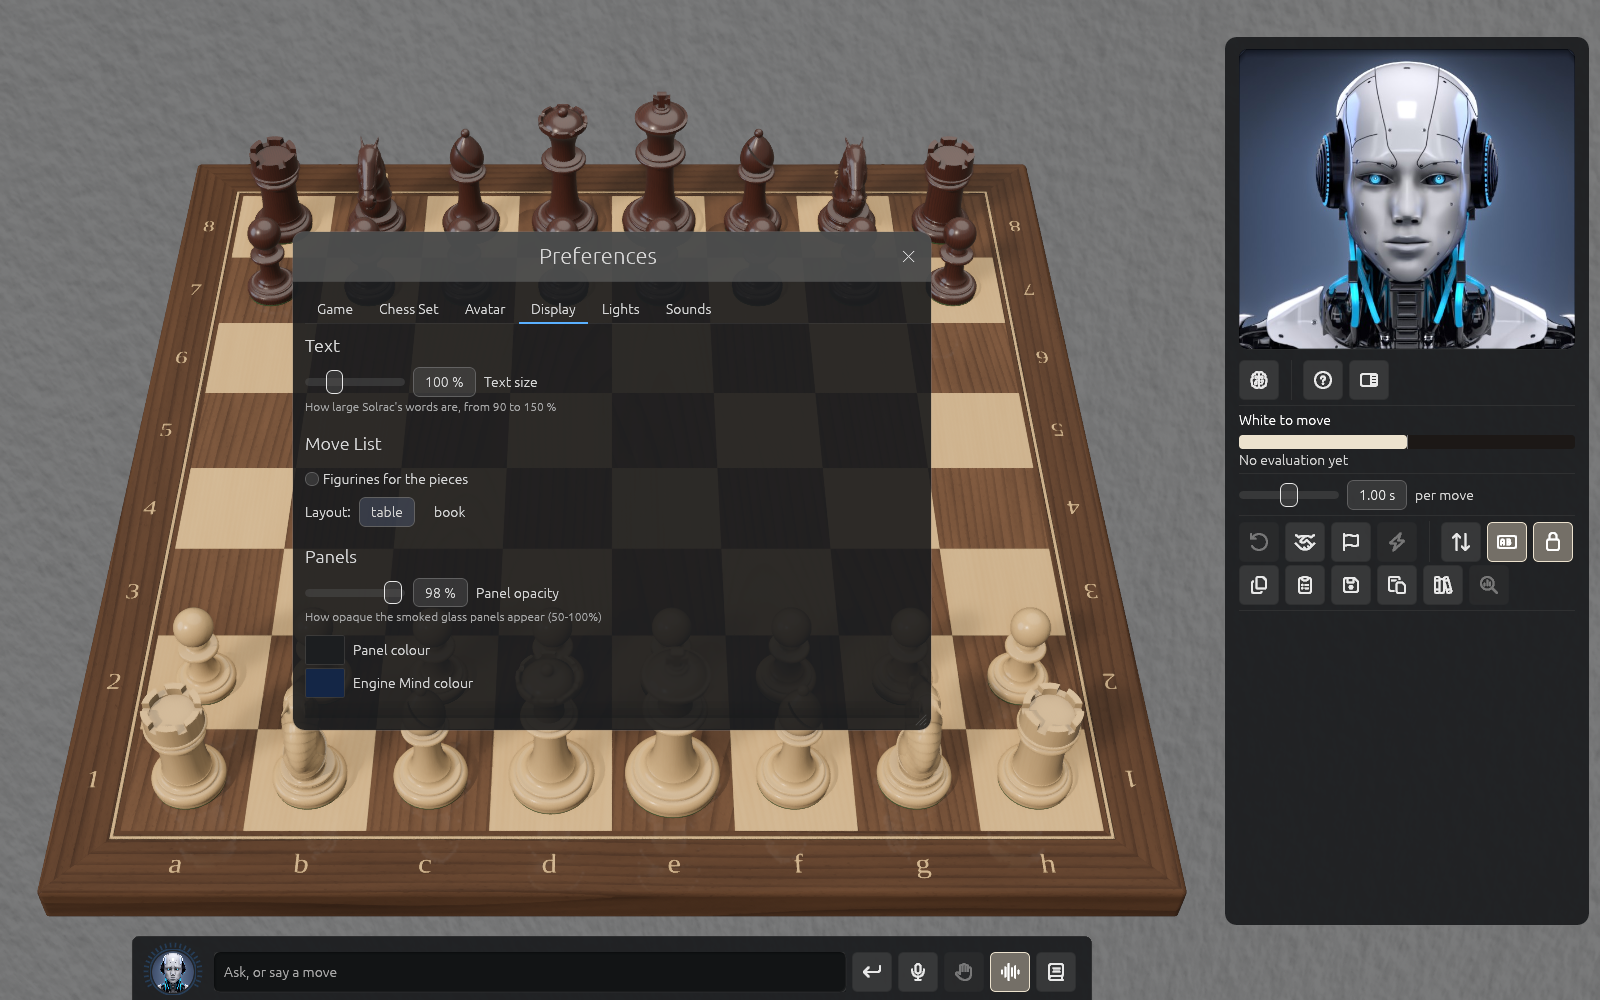
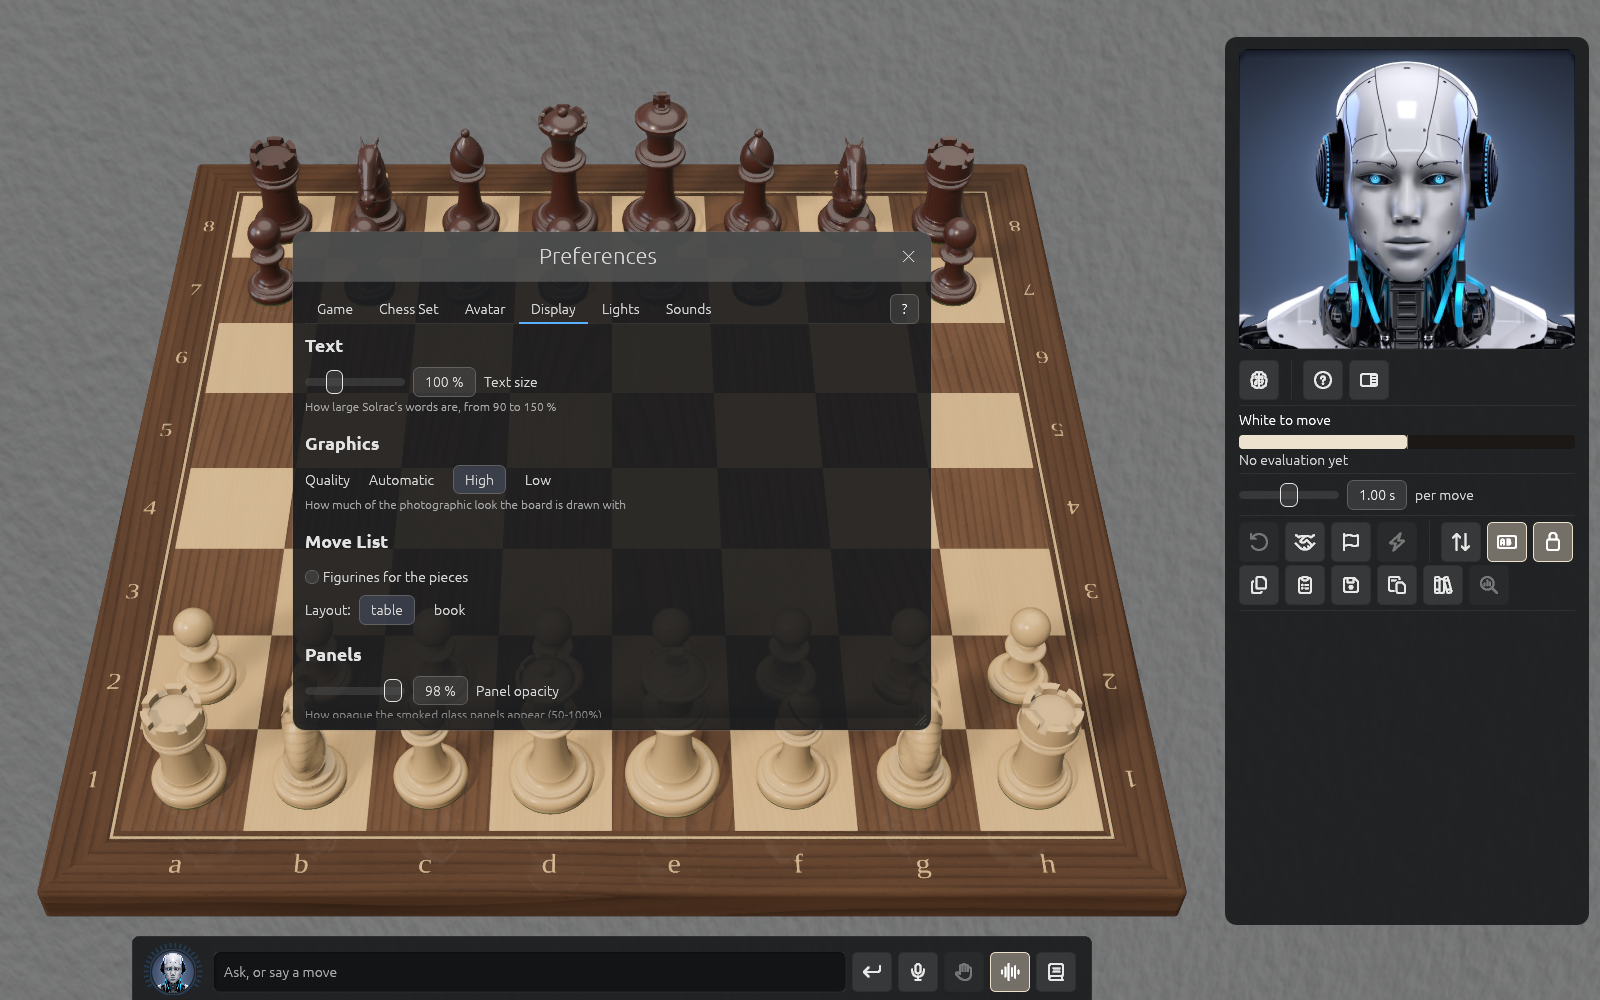
Guide: On a slower computer, Automatic main view, quality and read-aloud

Changed region(s): [[0.1875, 0.434, 0.375, 0.713], [0.1875, 0.341, 0.2188, 0.372]]

diff --git a/book/src/slow-computers.md b/book/src/slow-computers.md
@@ -1,0 +1,48 @@
+# On a slower computer
+
+Solrac's 3D board is a photograph drawn many times a second, and its voice is a speech model
+running on your own computer. A computer with a small graphics chip, an older processor or
+little memory may find that too much. Solrac notices some of it for you, and the rest you can
+choose.
+
+## What Solrac does by itself
+
+When it starts, Solrac asks the graphics card what it is. A **software renderer** (what a
+remote desktop session gives you) or an Intel **HD** or **UHD Graphics** chip counts as a weak
+one. Then, unless you have chosen otherwise:
+
+- **The main view is the 2D board.** It is drawn by the panel's own code, with no 3D scene, and
+  is the biggest saving: on a small Intel chip it drew about 60 frames a second where the 3D
+  board managed about 12.
+- **If you choose the 3D board, Quality is Low.** Low leaves out shadows, the pieces'
+  reflection in the board, ambient occlusion, depth of field and glow, and draws the board at
+  two thirds of the window's size. Pieces still shine and the room still lights them.
+- **Replies and moves are read aloud only in the Rail's Voice mode.** Making speech takes
+  several of the processor's cores for ten seconds or more, which also slows the board.
+
+Every other computer gets the 3D board, High quality and everything read aloud, as before.
+Preferences says when Automatic has chosen for you: *Automatic is showing the 2D board: this
+graphics card is a weak one.*
+
+## Choosing for yourself
+
+![Preferences, the Chess Set tab: Main view set to Automatic](images/preferences-chess-set.png)
+
+- **Main view** (Preferences → Chess Set): **Automatic**, **3D board** or **2D board**. See
+  [the 2D board](playing.md#the-2d-board).
+- **Quality** (Preferences → Display → Graphics): **Automatic**, **High** or **Low**.
+- **Read replies aloud** (Preferences → Avatar → Voice, and the speaker button in the
+  Rail): **Automatic**, **Always**, **In voice mode** or **Never**. Choosing **Always** reads
+  everything, as on a stronger computer; the speaker button turns reading on or off for now.
+
+Your choice is kept, and beats Automatic from then on, even if you later change computers.
+Choosing **Automatic** again hands the decision back.
+
+## If it is still slow
+
+- Close other programs, especially browsers: Solrac shares the processor with them.
+- Use a smaller window: the board is drawn at the window's size.
+- Turn **Show captions** off (Preferences → Avatar) if you don't read them.
+- Set **Cores for Solrac** (Preferences → Game) to 1, so the engine leaves room for the board.
+- A remote desktop is much slower than the computer's own screen, because it has no graphics
+  chip. Run Solrac from the computer's own display.

diff --git a/book/src/preferences.md b/book/src/preferences.md
@@ -16,8 +16,9 @@ The tabs, in order:
 
 ![Preferences, the Chess Set tab](images/preferences-chess-set.png)
 
-- **Board**: the **Main view**, **3D board** (the photographic board and pieces) or **2D board**
-  (a large flat board, see [Playing](playing.md)), and **Show board coordinates** (a–h, 1–8; both
+- **Board**: the **Main view**, **Automatic**, **3D board** (the photographic board and pieces)
+  or **2D board** (a large flat board, see [Playing](playing.md)); Automatic shows the 2D board
+  on a computer with a weak graphics card ([On a slower computer](slow-computers.md)). And **Show board coordinates** (a–h, 1–8; both
   boards). With the 3D board, the **Chess set** (Classic wood, Ebony + maple, Jade + Verde, Nero +
   Greige). With the 2D board, its **Background** (Midnight, Graphite, Slate, Forest, Wine or Sand).
 - **Chess clock** (3D board only): the colour of the clock's shell, from the picker or a swatch:
@@ -41,13 +42,17 @@ leave out the camera, Environment and Clock Position.
   shows on the board: Standard, Relaxed (the default) or Slow. The voice's own speed doesn't
   change.
 - **Voice**: the voice that reads replies, a Man/Woman switch, **Play sample**, and **Read
-  replies aloud**: Always, In voice mode (when Hands-free is on) or Never.
+  replies aloud**: Automatic (everything, except on a computer with a weak graphics card, where
+  it is In voice mode only), Always, In voice mode (when Hands-free is on) or Never.
 
 ## Display
 
 ![Preferences, the Display tab](images/preferences-display.png)
 
 - **Text**: size from 90 to 150 % (also ⌘+ and ⌘−).
+- **Graphics**: **Quality**, **Automatic**, **High** or **Low**: Low leaves out the shadows,
+  the reflection in the board and the finishing effects, for a weak graphics card
+  ([On a slower computer](slow-computers.md)).
 - **Move List**: **Figurines for the pieces** (♞f3 instead of Nf3) and the layout, table or
   book.
 - **Chess Clock**: which side of the board it stands on, and the [colour of its shell](#clock-colour).

diff --git a/book/src/faq.md b/book/src/faq.md
@@ -21,6 +21,12 @@ computer's engine, see [that chapter's troubleshooting](network-play.md#when-som
 `Documents/Solrac`.
 
 **The board looks too busy or slow.** Lower the sliders in Preferences → Lights or choose a
-plain Environment in Display.
+plain Environment in Display. On a computer with a weak graphics card, choose the 2D board
+(Preferences → Chess Set), or Quality Low (Preferences → Display); see
+[On a slower computer](slow-computers.md).
+
+**Solrac doesn't read the replies aloud.** On a computer with a weak graphics card, Automatic
+reads only in the Rail's Voice mode. Choose **Always** under Preferences → Avatar → Voice →
+Read replies aloud, or use the speaker button in the Rail.
 
 **Something else.** Post it on the [issues page](https://github.com/cjus/solrac-chess/issues).

diff --git a/book/src/chat-and-voice.md b/book/src/chat-and-voice.md
@@ -29,7 +29,9 @@ position and analysis the question needs. Your games library and settings stay o
   ignores Solrac's own speech, lets you speak over it, and hears an unclear move twice and
   checks it against the legal moves. It is off at each start.
 - **Read aloud**: replies are spoken on your Mac. **Preferences → Avatar → Voice** chooses
-  Always, In voice mode (when Hands-free is on) or Never, and the voice.
+  Automatic, Always, In voice mode (when Hands-free is on) or Never, and the voice. Automatic
+  reads everything, except on a computer with a weak graphics card, where it reads only in
+  voice mode ([On a slower computer](slow-computers.md)).
 - The voice models (about 830 MB) download once.
 
 ## Detail

diff --git a/book/src/playing.md b/book/src/playing.md
@@ -39,7 +39,8 @@ clock stands on the left or right of the board.
 
 Prefer a flat board, or is your computer slow? **Preferences → Chess Set → Main view → 2D board**
 fills the window with a large flat board instead of the 3D one, and nothing of the 3D scene is
-drawn, which is much lighter on the computer.
+drawn, which is much lighter on the computer. **Automatic**, the default, chooses it for you on
+a computer with a weak graphics card (see [On a slower computer](slow-computers.md)).
 
 ![The 2D board](images/board-2d.png)
 

diff --git a/book/src/SUMMARY.md b/book/src/SUMMARY.md
@@ -10,6 +10,7 @@
 - [The chat and voice](chat-and-voice.md)
 - [Your games, imports and backups](games.md)
 - [Playing on an engine on another computer](network-play.md)
+- [On a slower computer](slow-computers.md)
 - [Keyboard shortcuts](shortcuts.md)
 - [Preferences, tab by tab](preferences.md)
 - [Troubleshooting and FAQ](faq.md)
